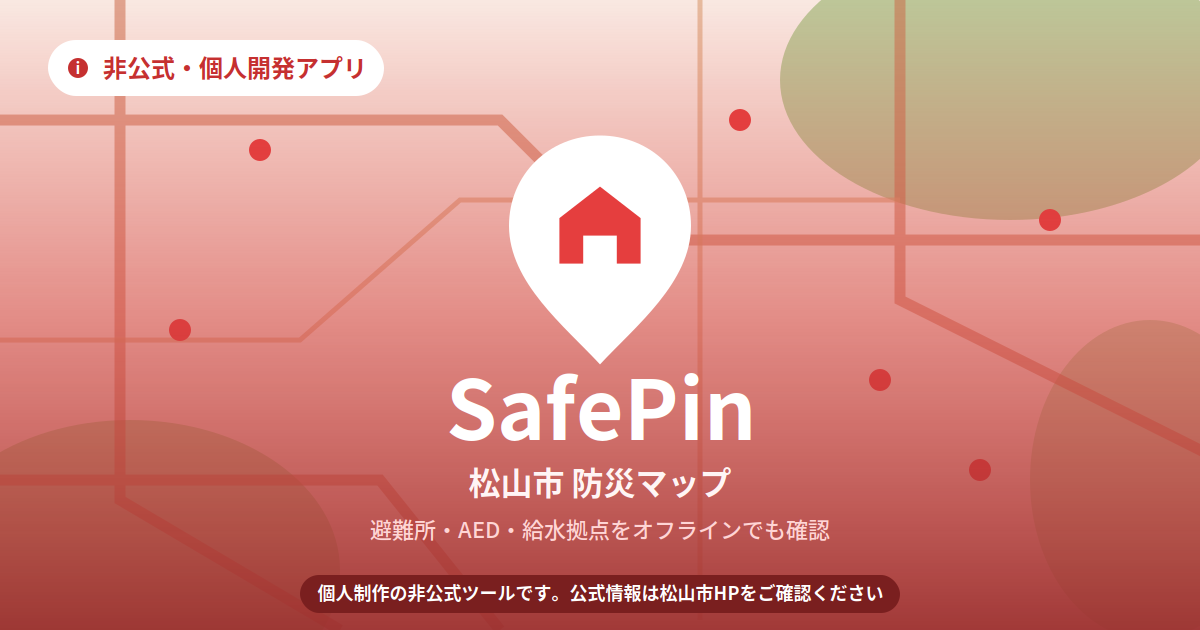
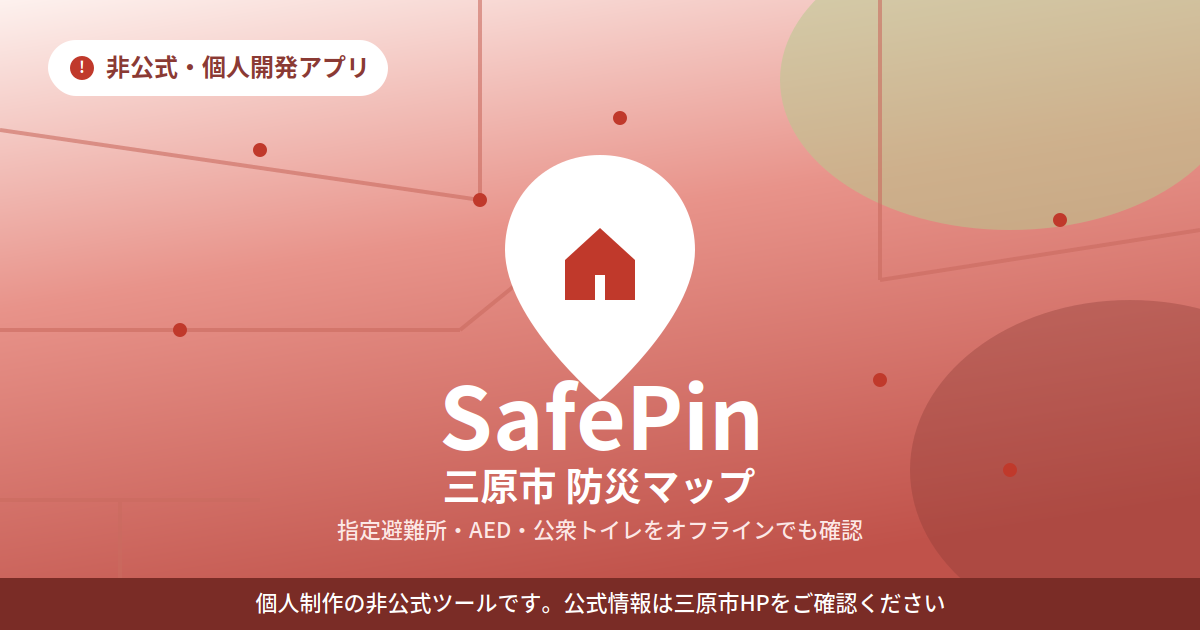
画像差し替え

diff --git a/app/layout.tsx b/app/layout.tsx
@@ -29,11 +29,11 @@ export default function RootLayout({
         <meta property="og:title" content="SafePin三原版 - 三原市防災マップ（非公式）" />
         <meta property="og:description" content="三原市内の指定避難所・緊急避難場所・AED・公衆トイレをオフラインでも確認できる非公式の個人開発防災マップアプリ" />
         <meta property="og:type" content="website" />
-        <meta property="og:image" content="https://safe-pin-one.vercel.app/ogp.png" />
+        <meta property="og:image" content="https://safe-pin-hiroshima-mihara.vercel.app/ogp.png" />
         <meta name="twitter:card" content="summary_large_image" />
         <meta name="twitter:title" content="SafePin三原版 - 三原市防災マップ（非公式）" />
         <meta name="twitter:description" content="三原市内の指定避難所・緊急避難場所・AED・公衆トイレをオフラインでも確認できる非公式の個人開発防災マップアプリ" />
-        <meta name="twitter:image" content="https://safe-pin-one.vercel.app/ogp.png" />
+        <meta name="twitter:image" content="https://safe-pin-hiroshima-mihara.vercel.app/ogp.png" />
       </head>
       <body className="antialiased">
         <Script
